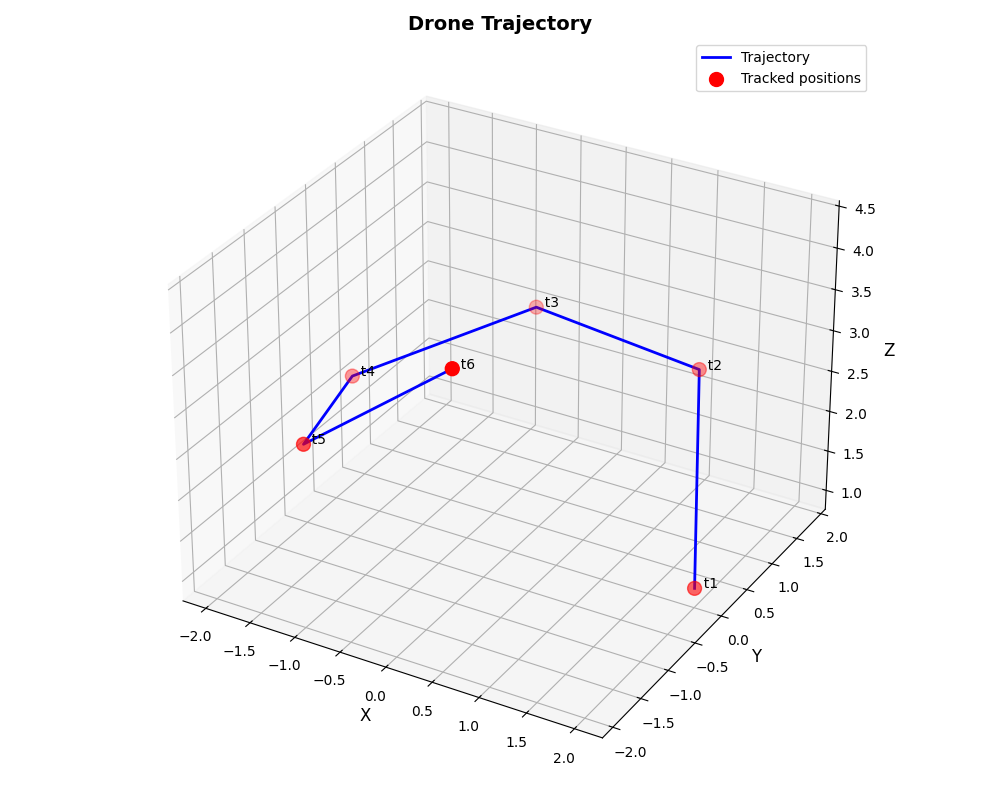
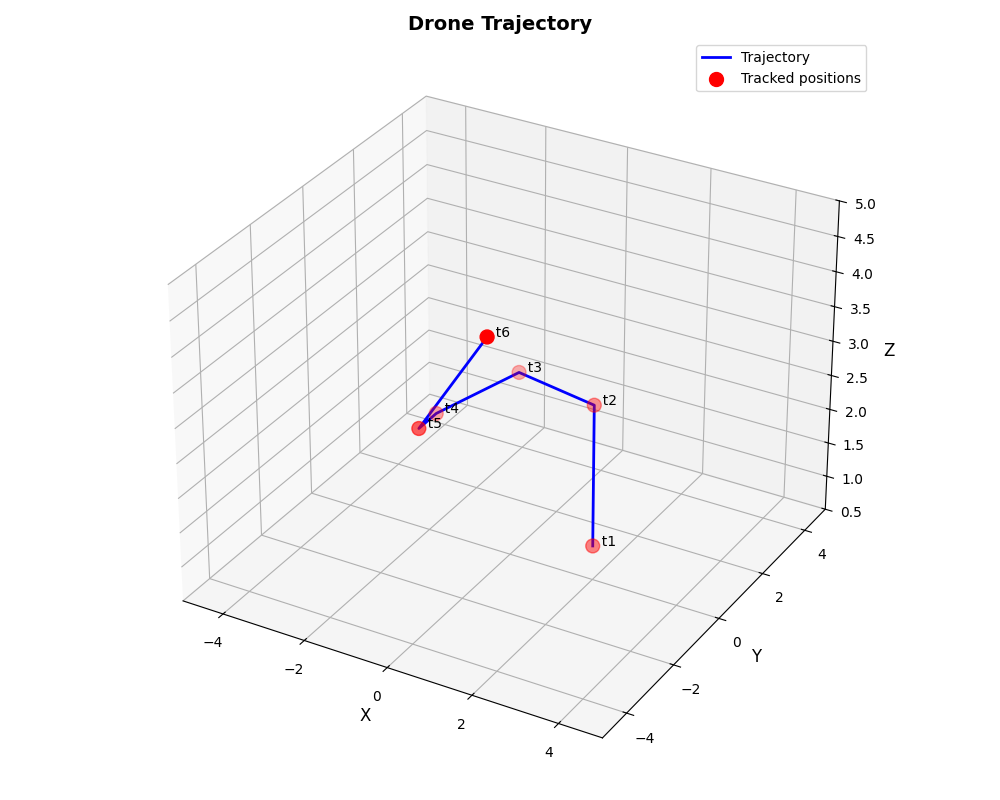
fixed plot

diff --git a/drone_trajectory.py b/drone_trajectory.py
@@ -22,6 +22,9 @@ z = P[:, 2]
 #3D plot
 fig = plt.figure(figsize=(10, 8))
 ax = fig.add_subplot(111, projection='3d')
+ax.set_xlim(-5, 5)
+ax.set_ylim(-5, 5)
+ax.set_zlim(0.5, 5)
 
 #the trajectory (line connecting the position points)
 ax.plot(x, y, z, 'b-', linewidth=2, label='Trajectory')
